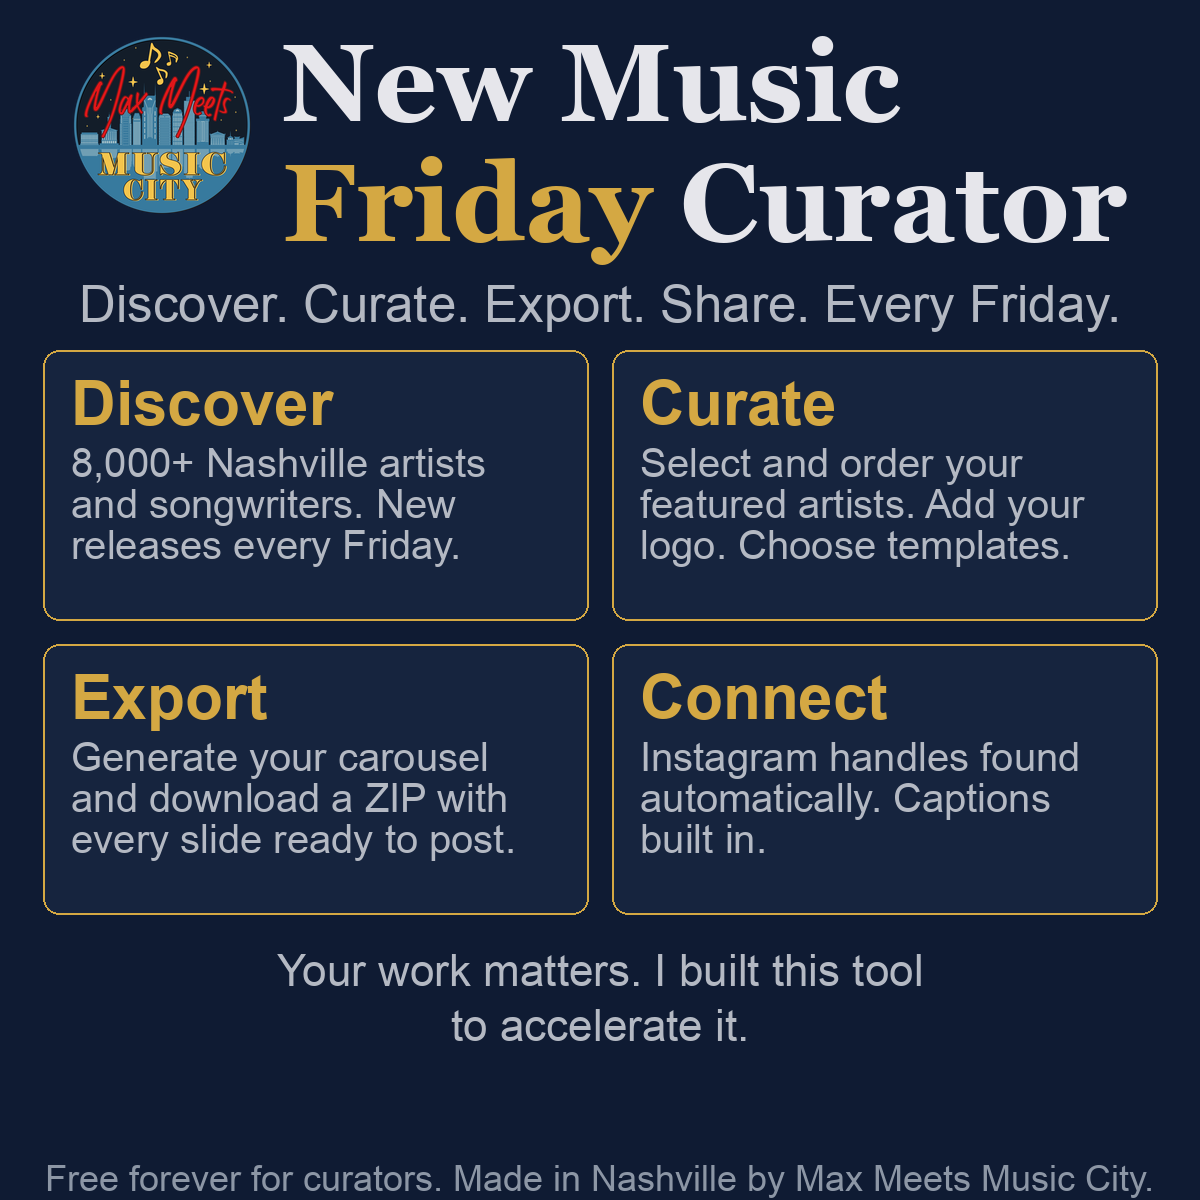
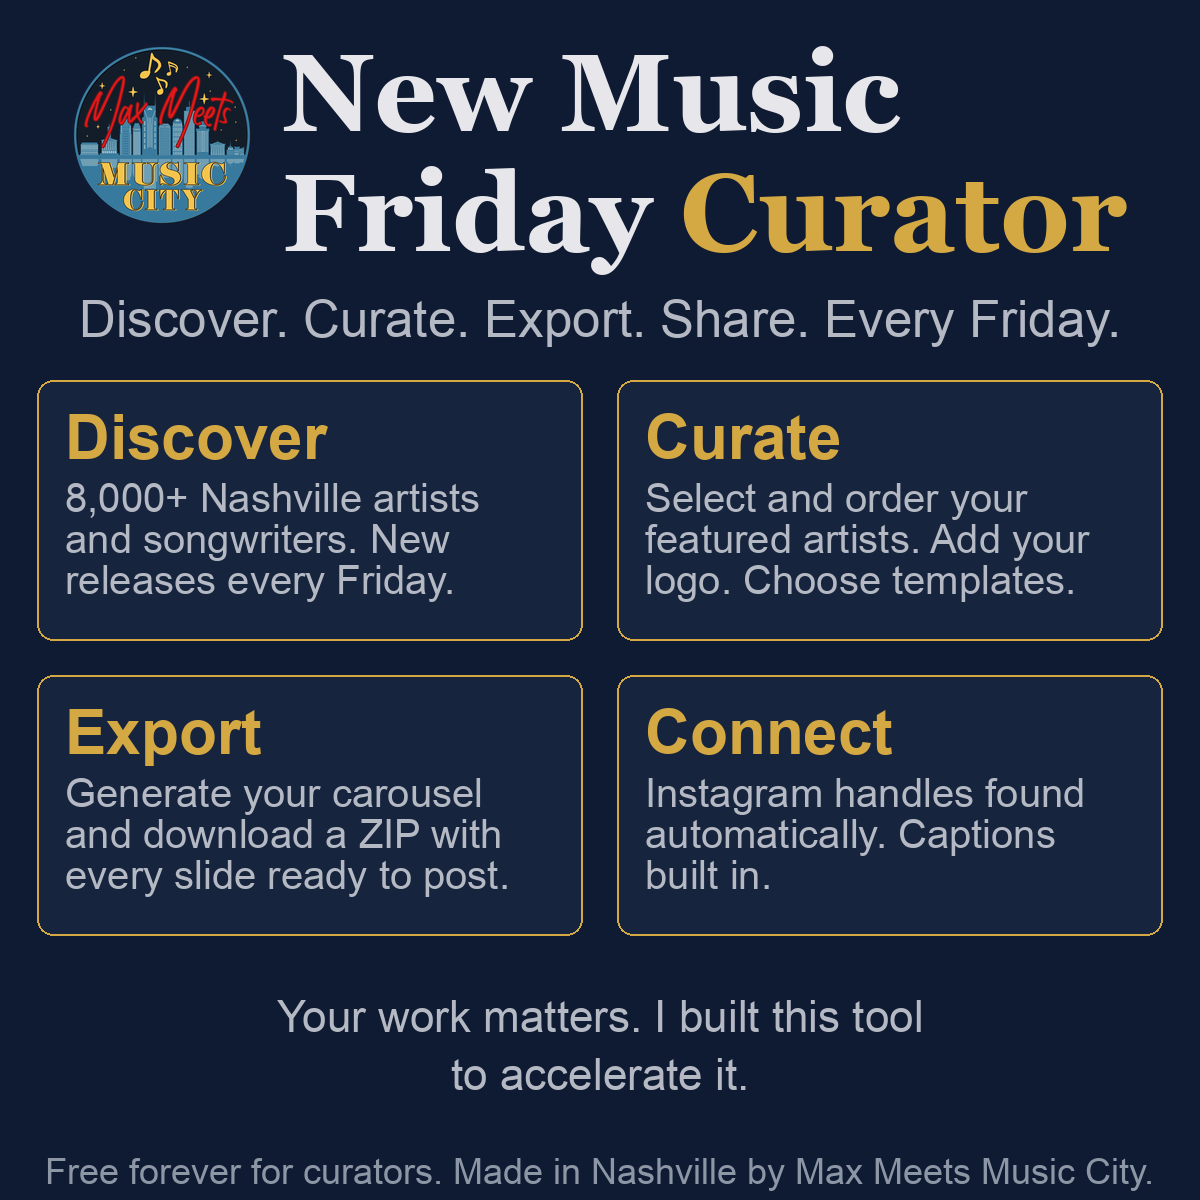
Restore subtitle on landing page, OG image spacing tightened
Added "Discover. Curate. Export. Share. Every Friday." subtitle.
OG image: taller cards (260px), more gaps between elements, gap closed.

diff --git a/src/components/AuthGate.tsx b/src/components/AuthGate.tsx
@@ -82,6 +82,10 @@ export default function AuthGate({ children }: Props) {
           </h1>
         </div>
 
+        <p style={{ color: 'var(--text-secondary)', fontSize: 'clamp(var(--fs-md), 2.5vw, var(--fs-xl))', lineHeight: 1.6, marginBottom: 'clamp(10px, 2vw, 20px)' }}>
+          Discover. Curate. Export. Share. Every Friday.
+        </p>
+
         {/* What this does — bright feature cards */}
         <div style={{
           display: 'grid', gridTemplateColumns: 'repeat(2, 1fr)',
